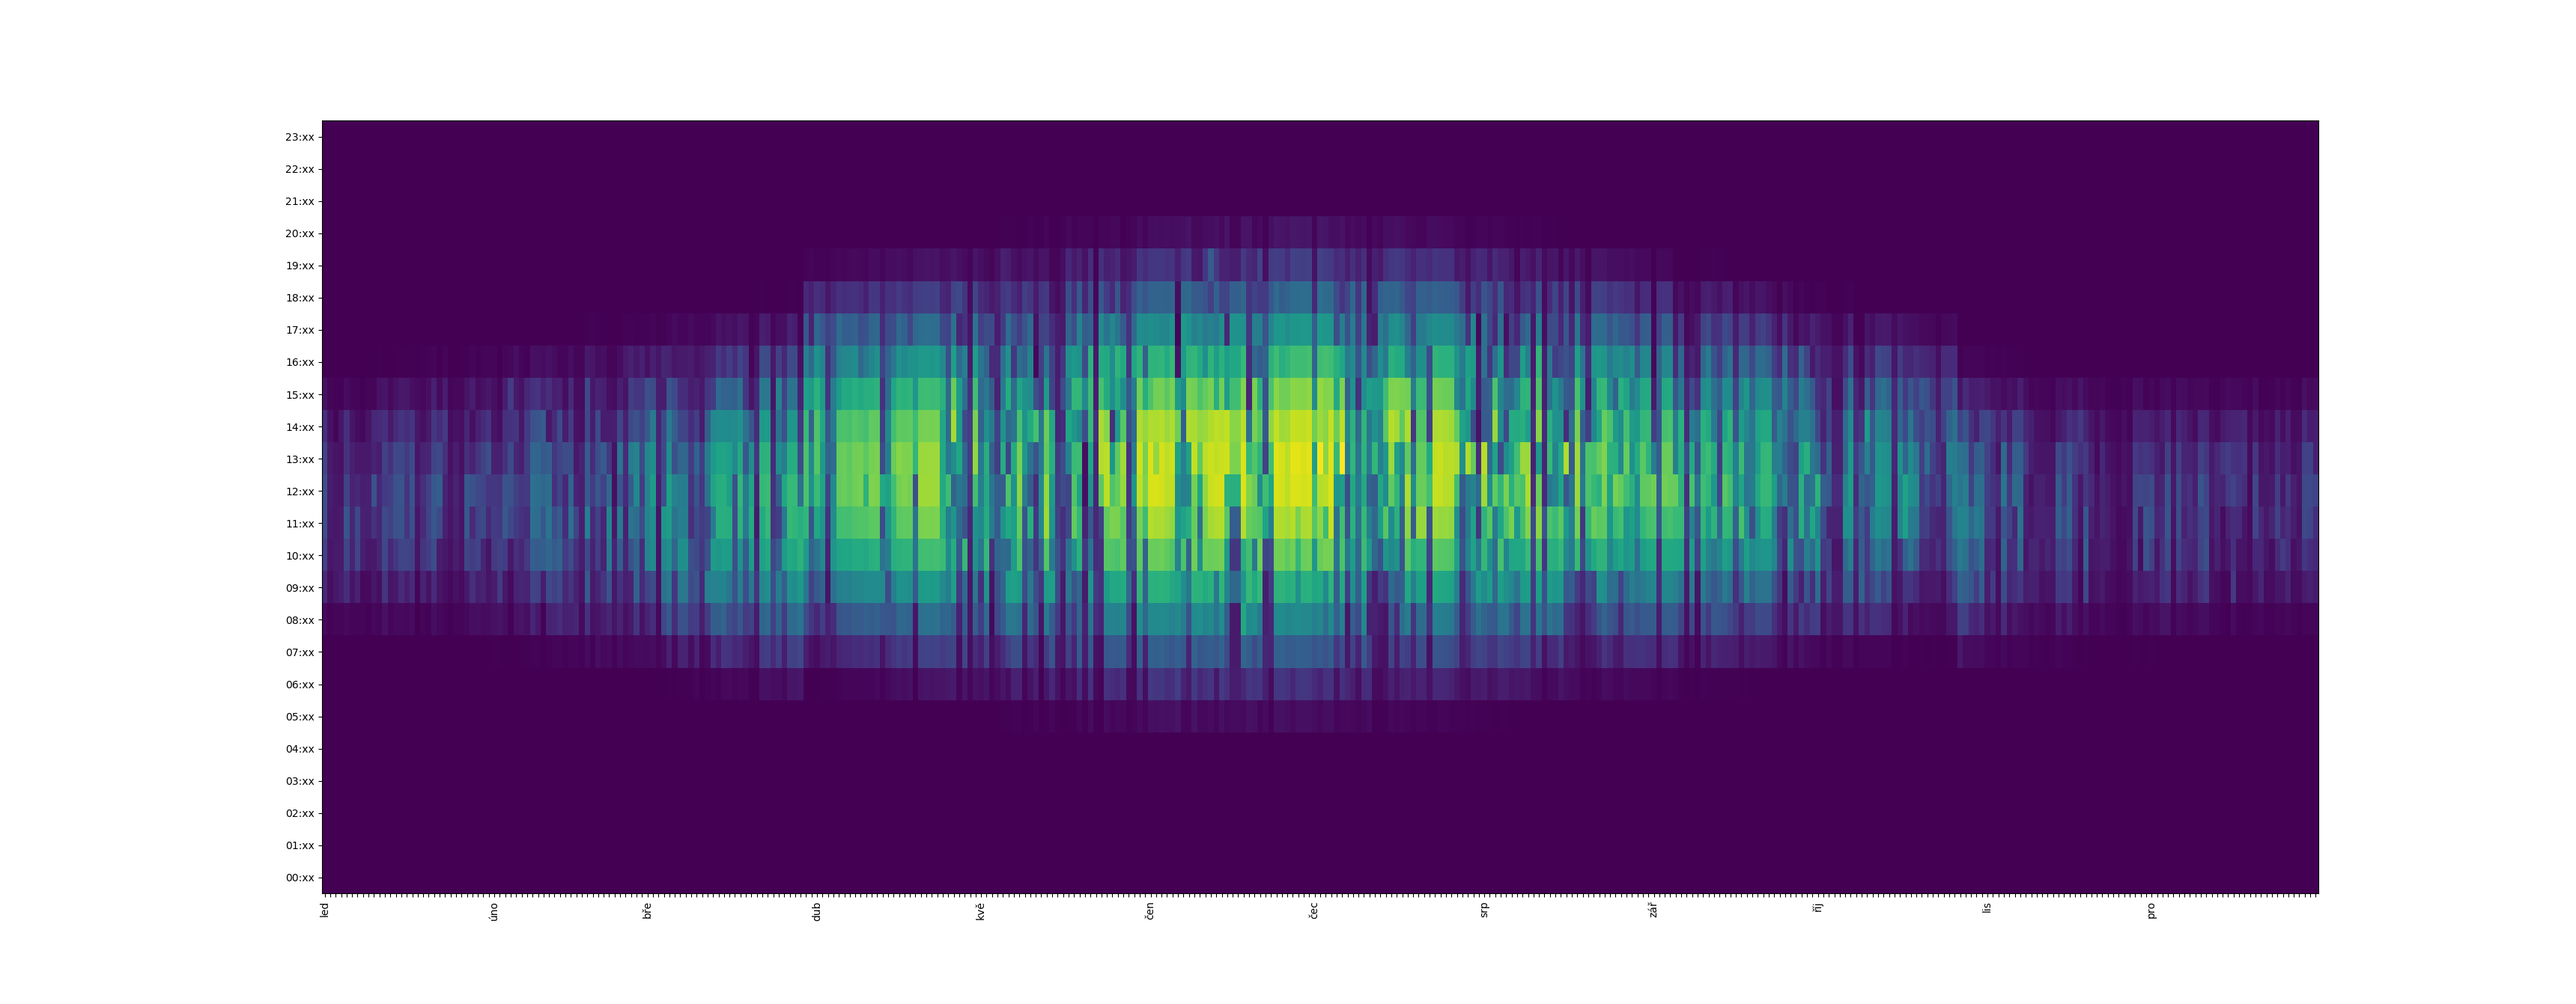
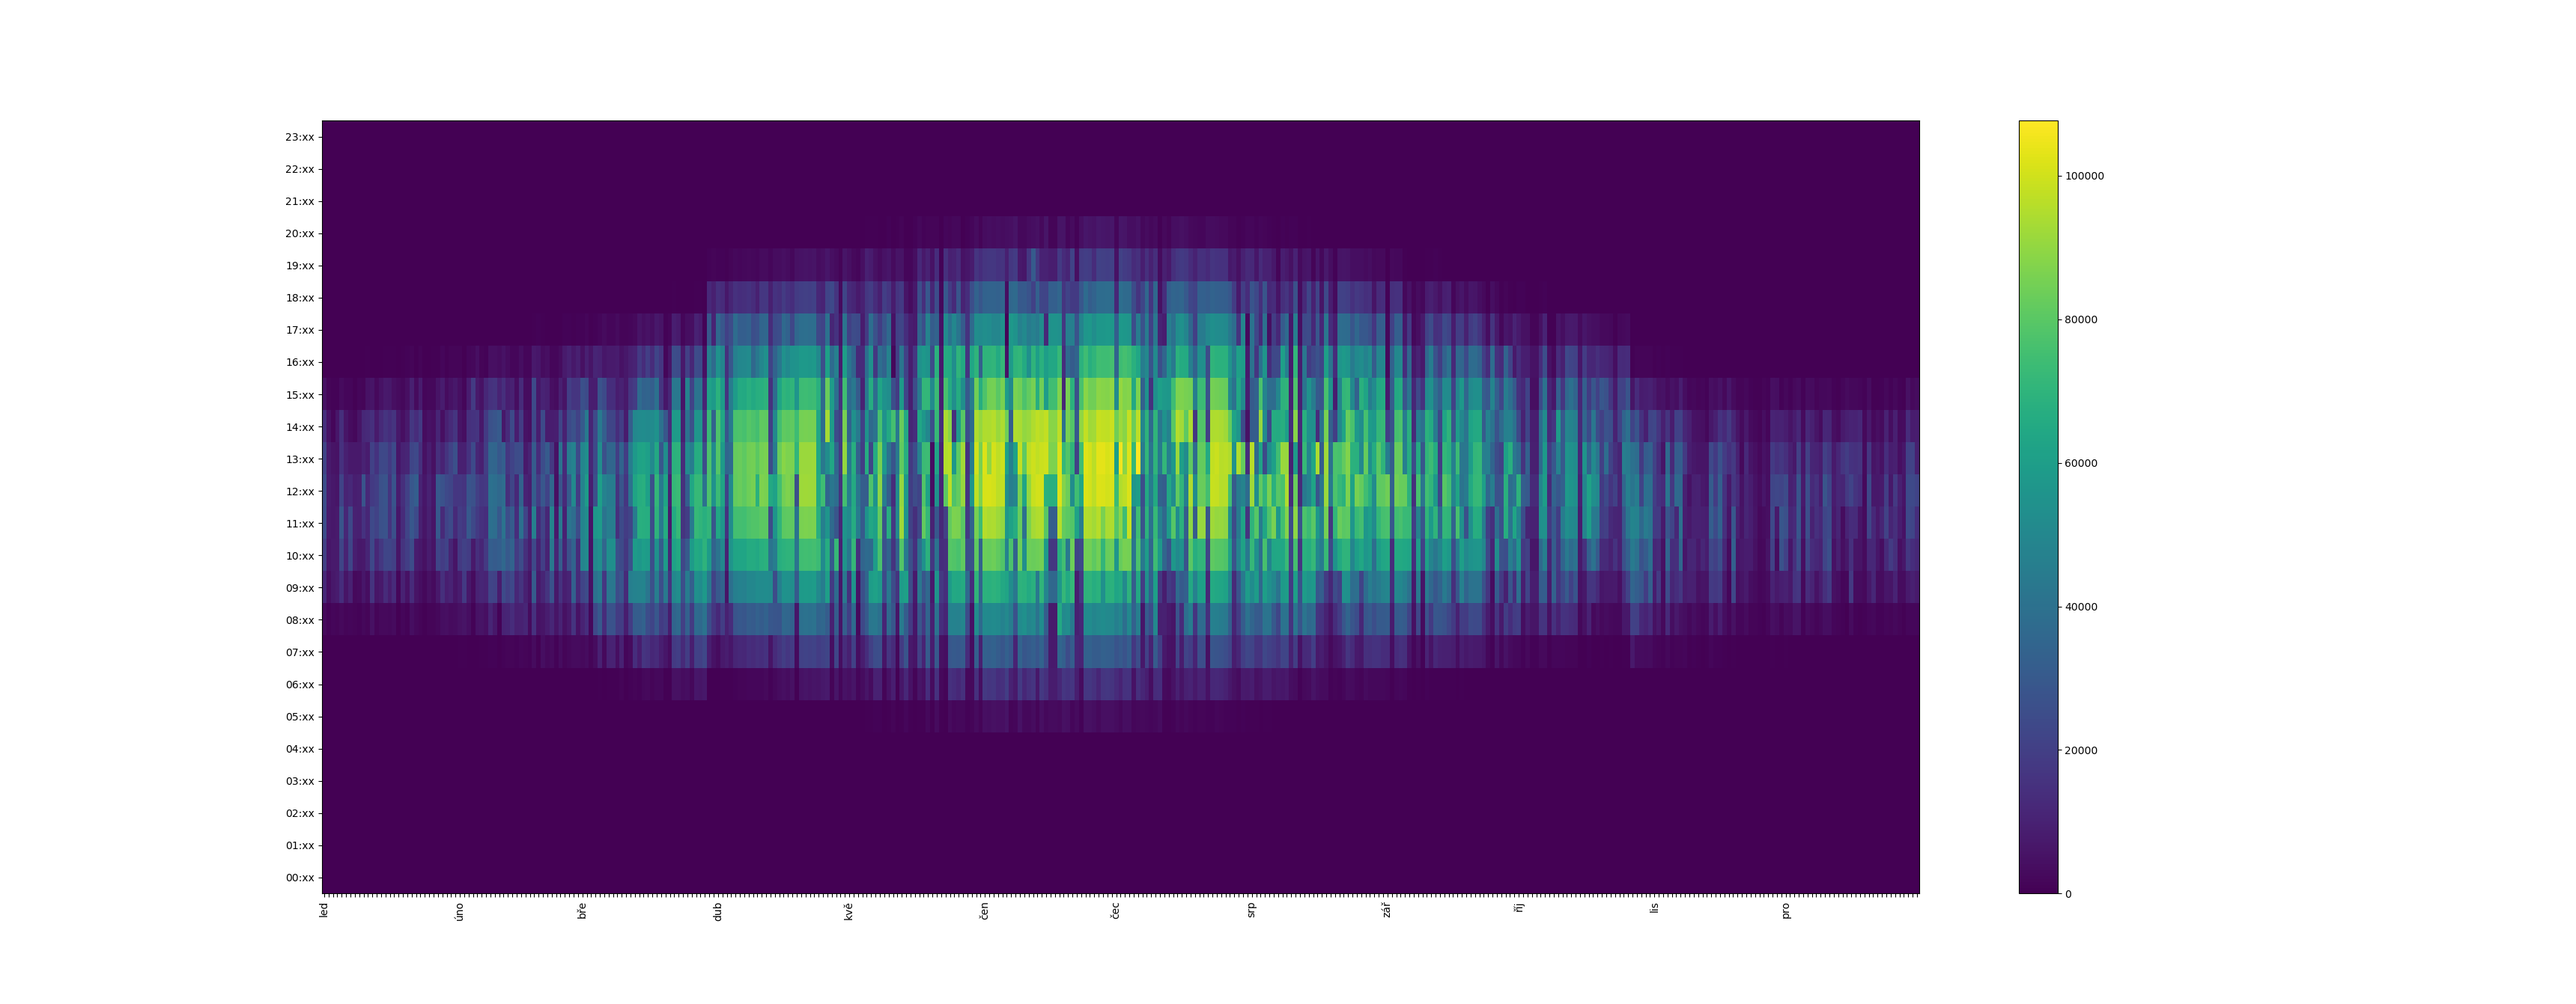
Add colorbar/legend

Changed region(s): [[0.1244, 0.1222, 0.902, 0.9165]]

diff --git a/hodina_cvs.py b/hodina_cvs.py
@@ -16,7 +16,7 @@ df2 = df.reset_index().pivot(columns='day1',index='hour',values='horizon')
 
 print(df2)
 
-plt.imshow(df2, aspect='auto', origin='lower')
+im = plt.imshow(df2, aspect='auto', origin='lower')
 
 ax = plt.gca()
 
@@ -38,6 +38,8 @@ ticklabelsy = [item.strftime('%H:xx') for item in df2.index]
 
 ax.set_yticks(range(len(ticklabelsy)))
 ax.set_yticklabels(ticklabelsy)
+
+plt.colorbar(im)
 
 plt.show()
 

diff --git a/zapocitane_hodnoty.py b/zapocitane_hodnoty.py
@@ -16,7 +16,7 @@ df2 = df.reset_index().pivot(columns='day1',index='hour',values='horizon')
 
 print(df2)
 
-plt.imshow(df2, aspect='auto', origin='lower')
+im = plt.imshow(df2, aspect='auto', origin='lower')
 
 ax = plt.gca()
 
@@ -38,6 +38,8 @@ ticklabelsy = [item.strftime('%H:xx') for item in df2.index]
 
 ax.set_yticks(range(len(ticklabelsy)))
 ax.set_yticklabels(ticklabelsy)
+
+plt.colorbar(im)
 
 plt.show()
 

diff --git a/median_19_exterier_cvs_quantized.py b/median_19_exterier_cvs_quantized.py
@@ -56,7 +56,7 @@ print(df2)
 
 fig, ax = plt.subplots()
 
-ax.imshow(df2, aspect='auto', origin='lower')
+im = ax.imshow(df2, aspect='auto', origin='lower')
 
 
 import locale
@@ -100,6 +100,8 @@ ticklabelsy = [timeToStr(item) for item in df2.index]
 
 ax.set_yticks(range(len(ticklabelsy)))
 ax.set_yticklabels(ticklabelsy)
+
+plt.colorbar(im)
 
 plt.show()
 

diff --git a/median_19_exterier_cvs.py b/median_19_exterier_cvs.py
@@ -38,7 +38,7 @@ print(df2)
 
 fig, ax = plt.subplots()
 
-ax.imshow(df2, aspect='auto', origin='lower')
+im = ax.imshow(df2, aspect='auto', origin='lower')
 
 
 import locale
@@ -82,6 +82,8 @@ ticklabelsy = [timeToStr(item) for item in df2.index]
 
 ax.set_yticks(range(len(ticklabelsy)))
 ax.set_yticklabels(ticklabelsy)
+
+plt.colorbar(im)
 
 plt.show()
 
